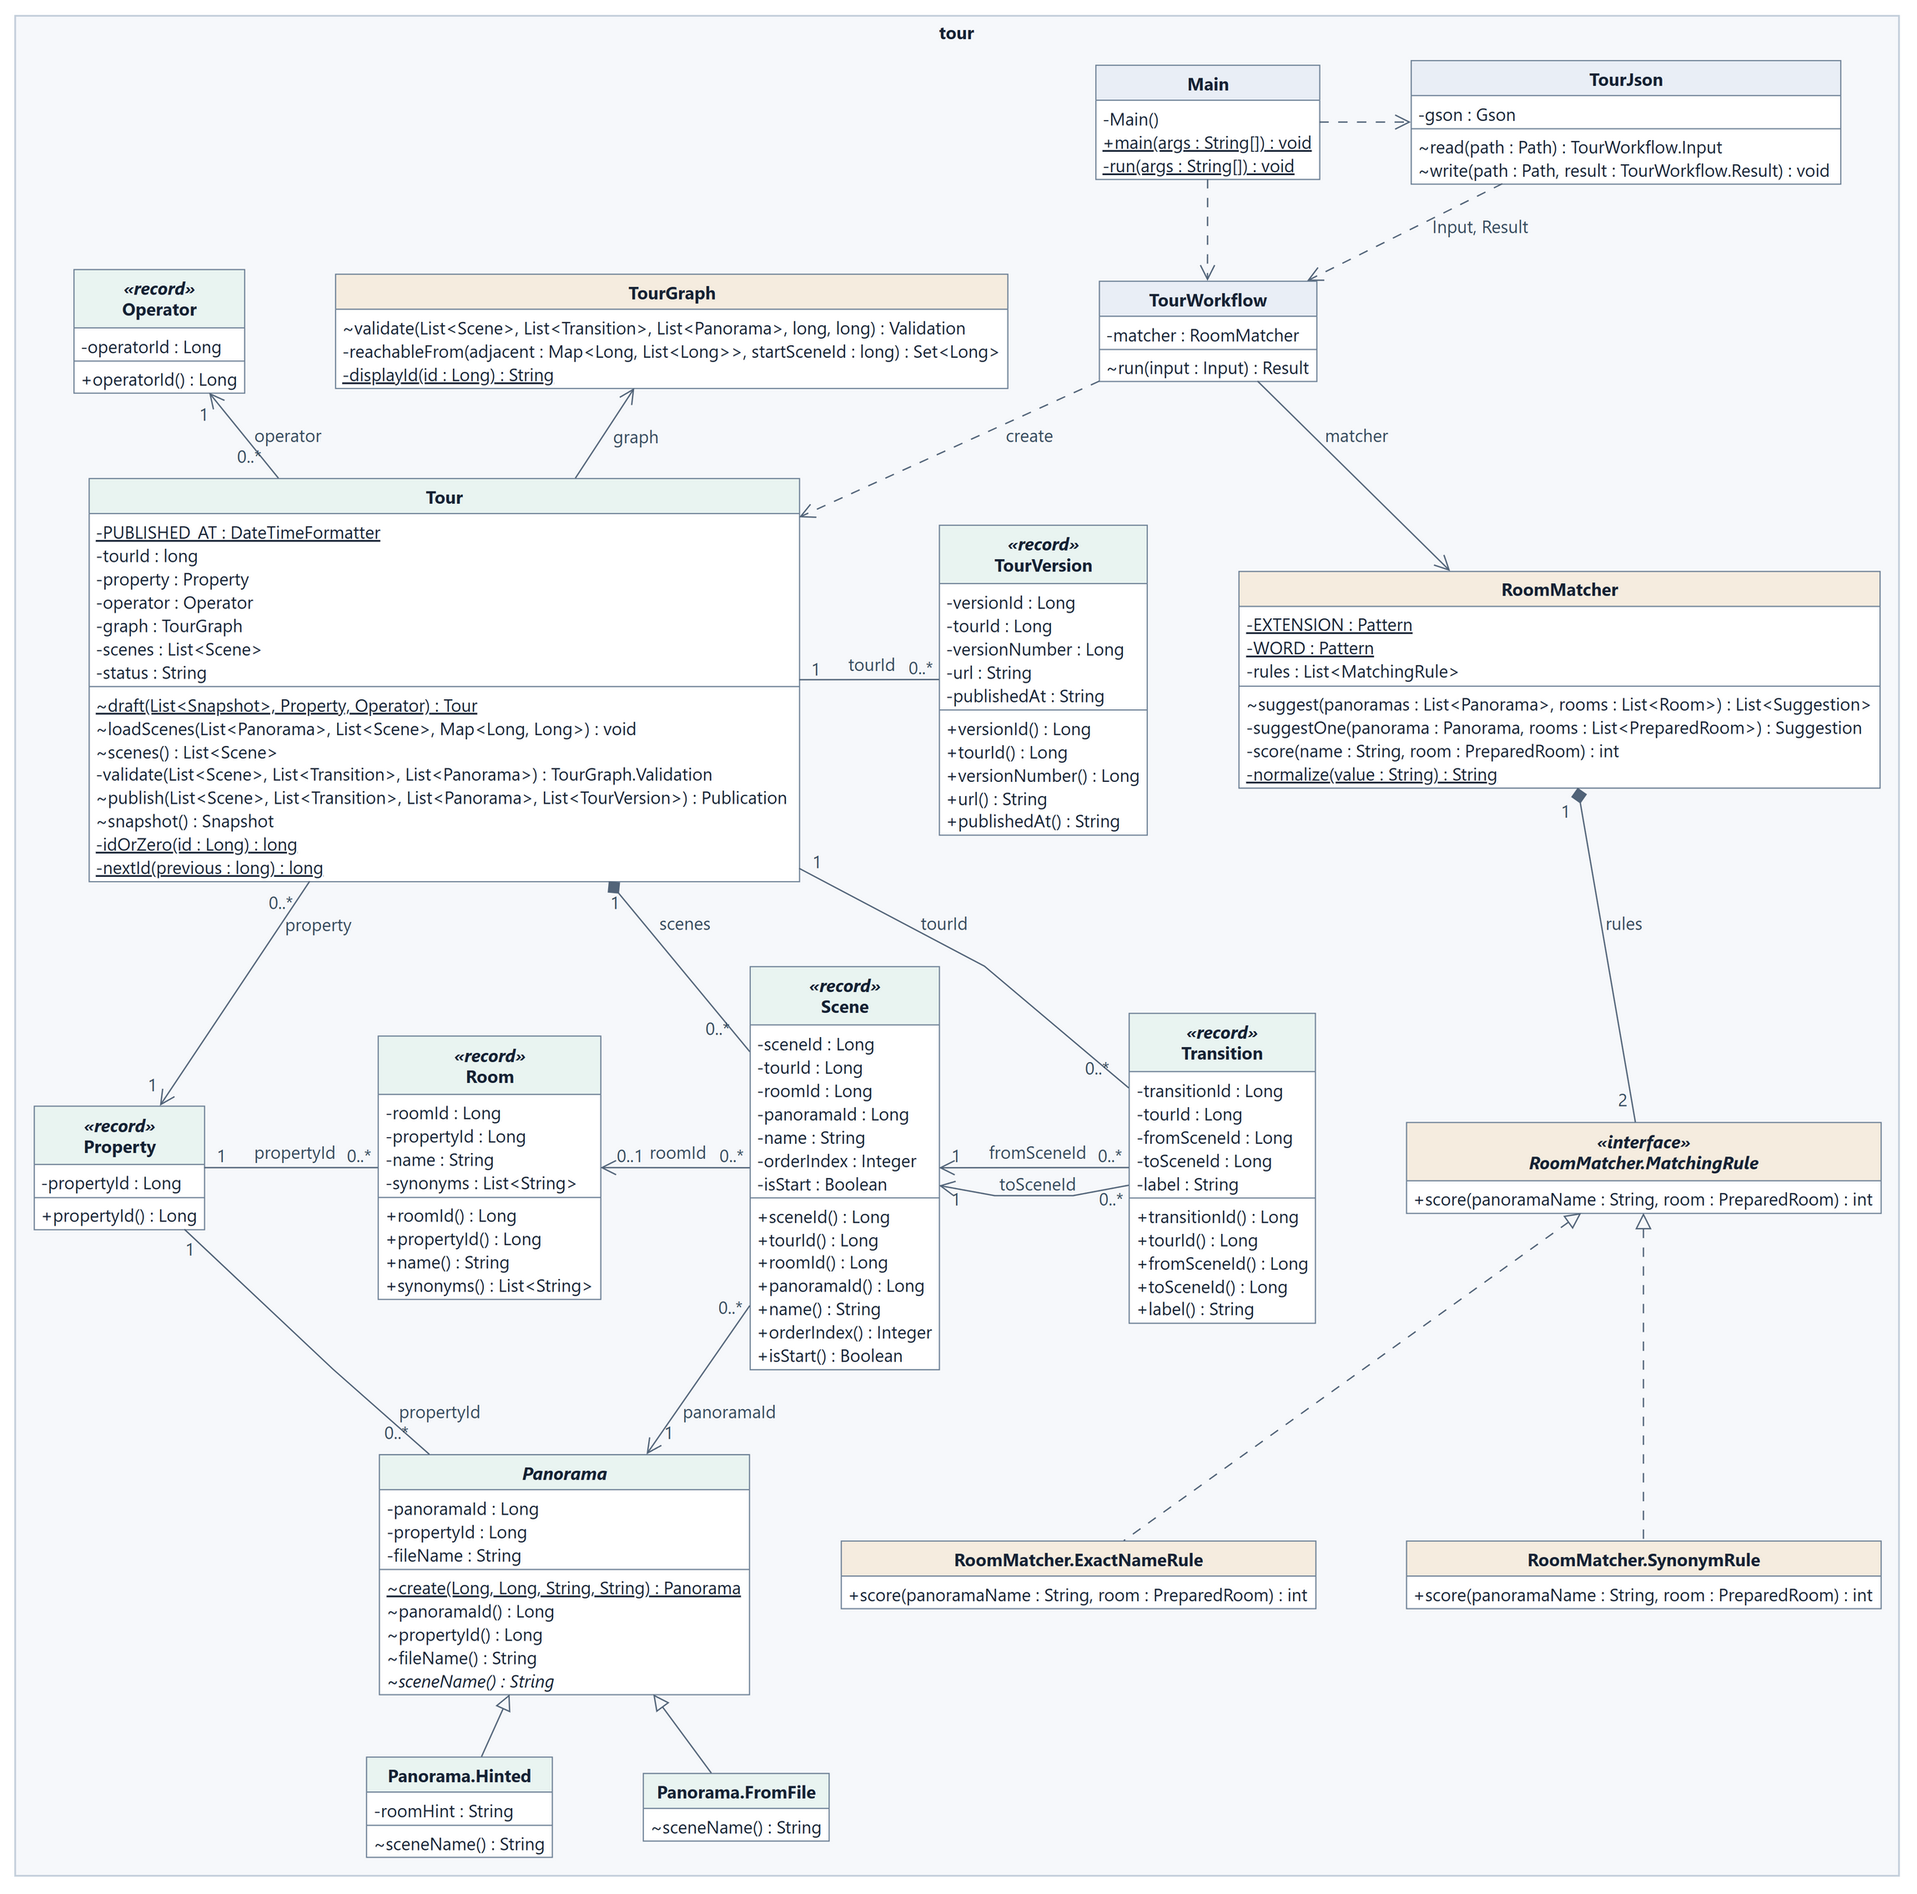
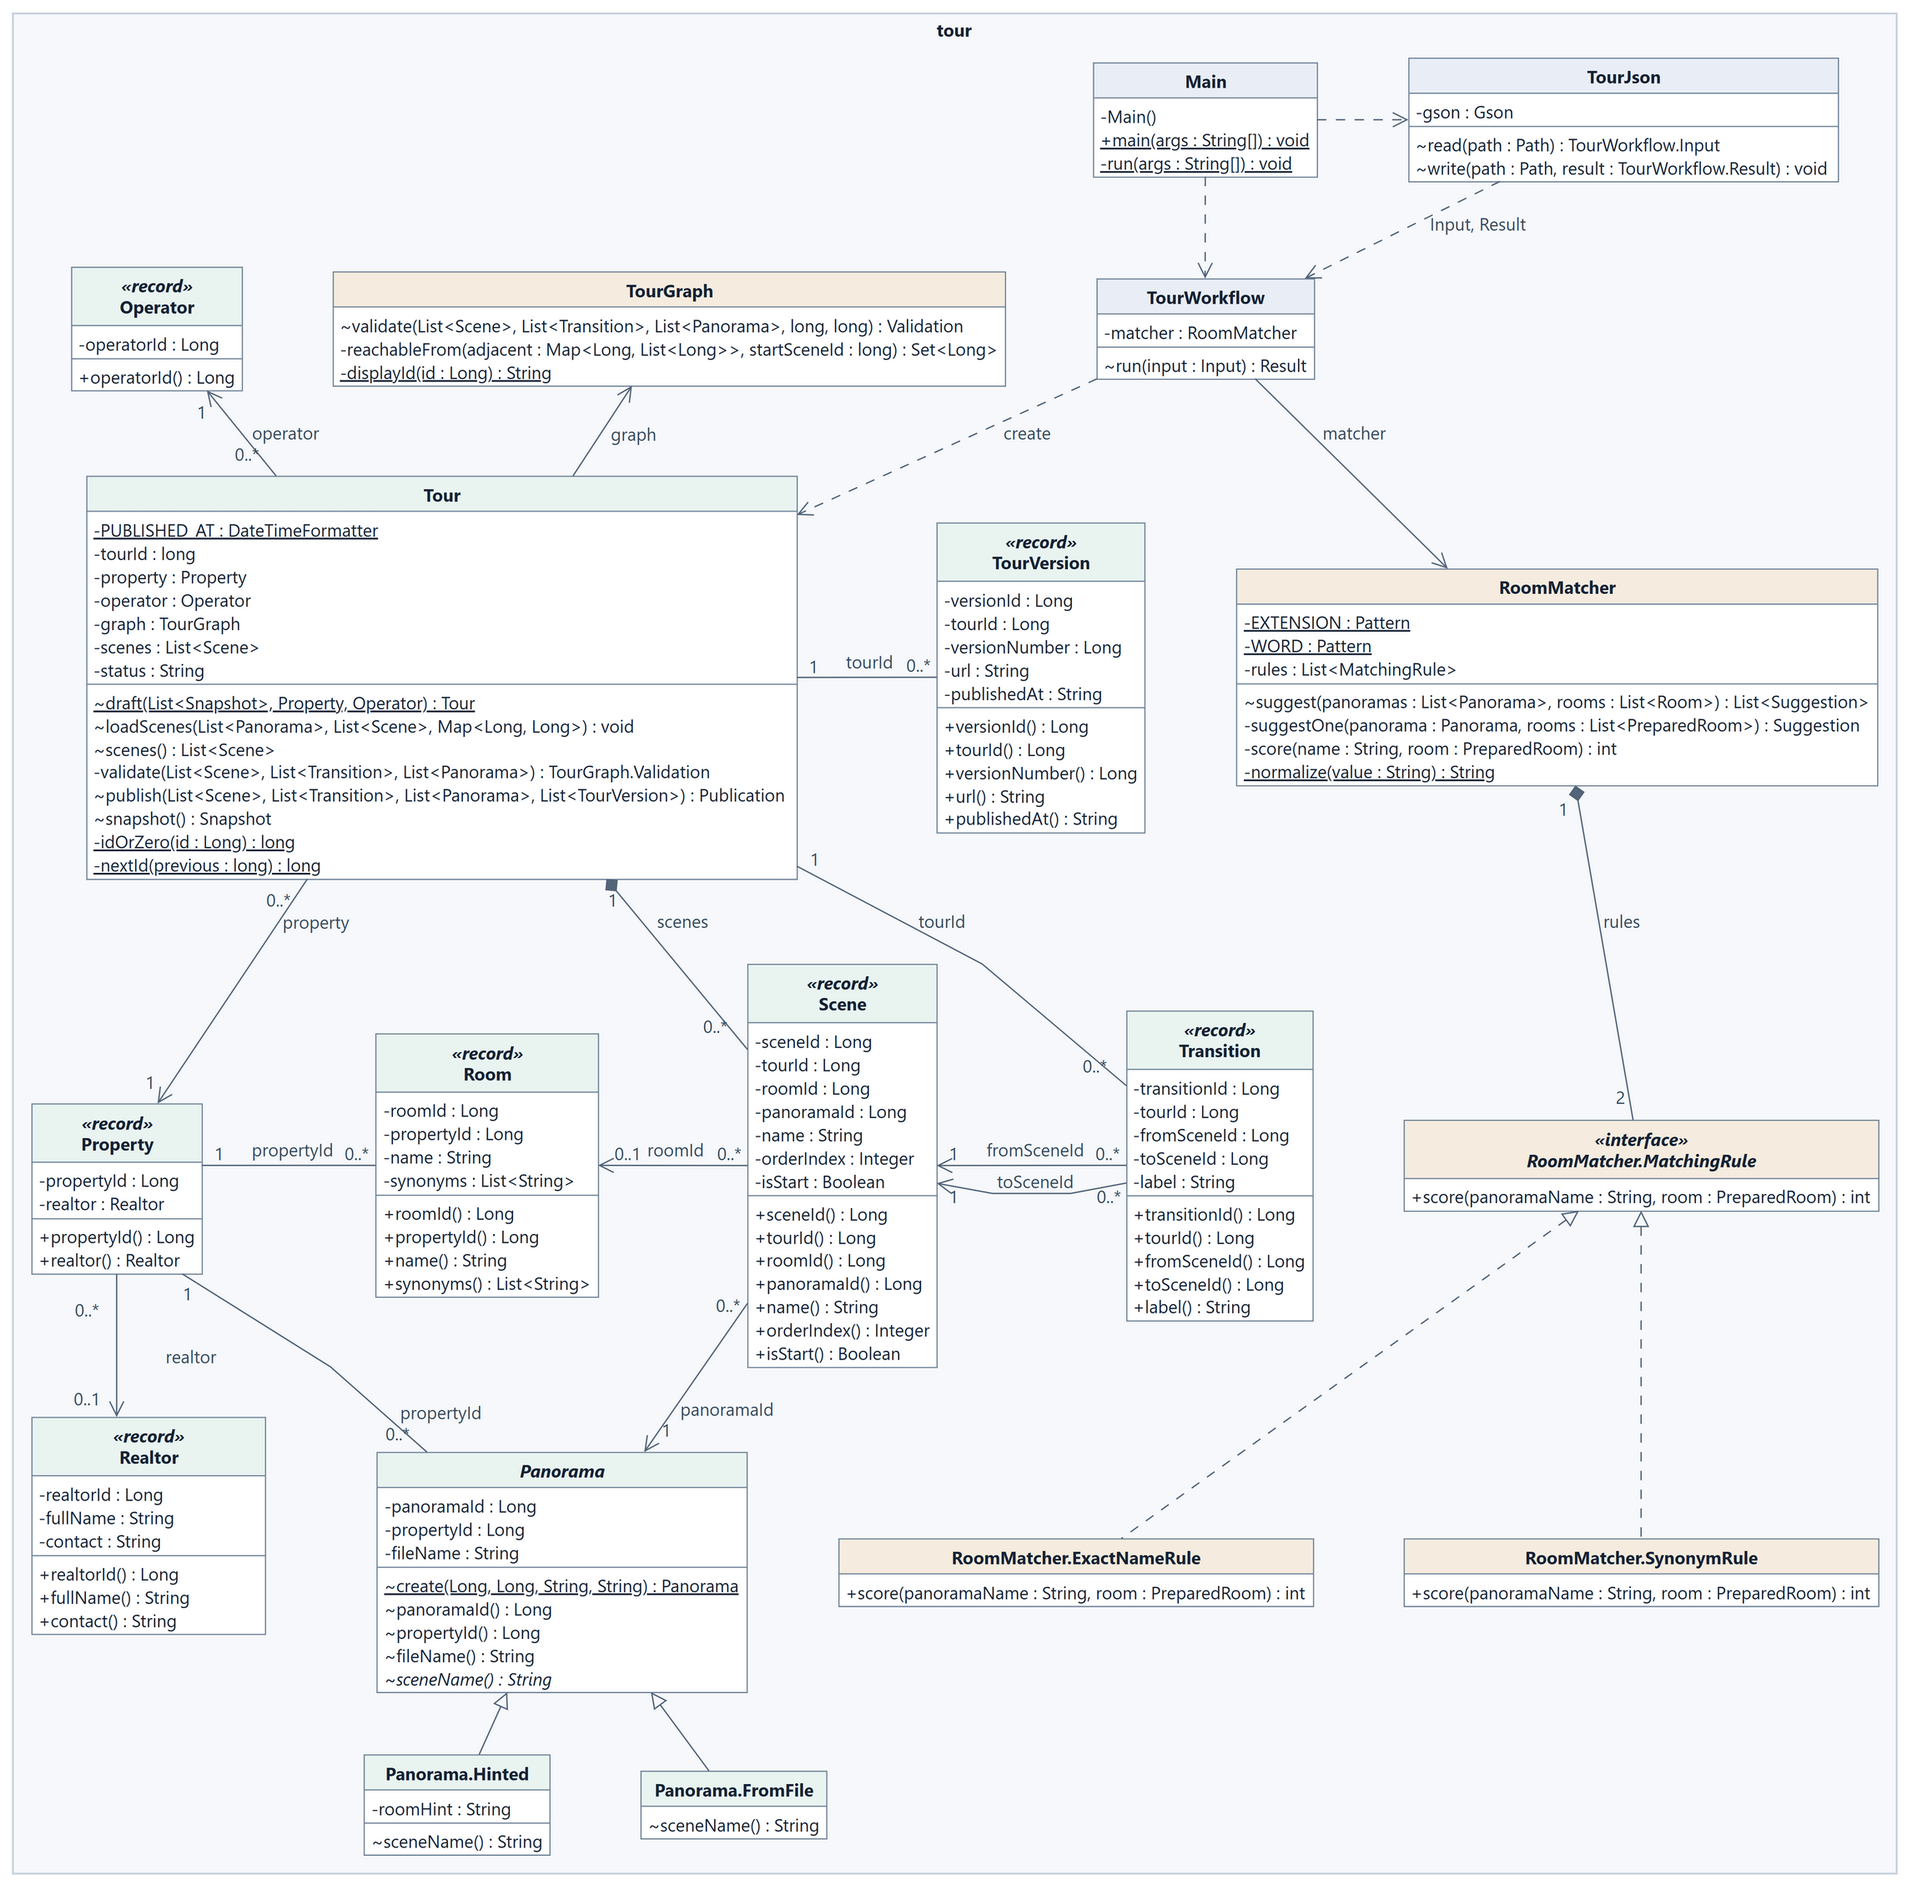
Добавить сущность Realtor и обновить диаграмму классов

diff --git a/src/java/src/main/java/tour/TourJson.java b/src/java/src/main/java/tour/TourJson.java
@@ -34,8 +34,13 @@ final class TourJson {
                 }
             }
             InputDocument data = gson.fromJson(root, InputDocument.class);
+            Realtor realtor = data.realtor();
+            if (realtor != null && realtor.realtorId() == null) {
+                throw new IllegalArgumentException("Отсутствует обязательное поле realtor.realtor_id");
+            }
             List<Panorama> panoramas = data.panoramas().stream().map(PanoramaEntry::toPanorama).toList();
-            return new TourWorkflow.Input(new Property(data.propertyId()), new Operator(data.operatorId()),
+            return new TourWorkflow.Input(new Property(data.propertyId(), realtor),
+                    new Operator(data.operatorId()),
                     data.rooms(), panoramas, data.tours(), data.scenes(), data.transitions(), data.versions());
         }
     }
@@ -59,7 +64,8 @@ final class TourJson {
         }
     }
 
-    private record InputDocument(Long propertyId, Long operatorId, List<Room> rooms, List<PanoramaEntry> panoramas,
+    private record InputDocument(Long propertyId, Long operatorId, Realtor realtor,
+                                 List<Room> rooms, List<PanoramaEntry> panoramas,
                                  List<Tour.Snapshot> tours, List<Scene> scenes, List<Transition> transitions,
                                  List<TourVersion> versions) {
         InputDocument {

diff --git a/src/java/src/main/java/tour/Property.java b/src/java/src/main/java/tour/Property.java
@@ -1,4 +1,4 @@
 package tour;
 
-record Property(Long propertyId) {
+record Property(Long propertyId, Realtor realtor) {
 }

diff --git a/src/java/src/main/java/tour/Realtor.java b/src/java/src/main/java/tour/Realtor.java
@@ -1,0 +1,4 @@
+package tour;
+
+record Realtor(Long realtorId, String fullName, String contact) {
+}

diff --git a/src/java/README.md b/src/java/README.md
@@ -33,4 +33,5 @@ java -jar target/virtual-tour.jar --input example_input.json --output result.jso
 - `Panorama` задаёт общий тип панорамы. Подкласс `Hinted` использует подсказку оператора, `FromFile` — имя файла. Полученное имя используется и в сцене, и при сопоставлении.
 - `RoomMatcher` применяет две реализации интерфейса `MatchingRule`: точное совпадение и совпадение по синониму. При равенстве лучших оценок сохраняются все кандидаты. При отсутствии совпадений панорама направляется на ручную проверку.
 - `Tour` создаёт сцены и выпускает версию после проверки. `TourGraph` строит список смежности и обходом в ширину находит сцены, достижимые из старта.
-- `List` хранит упорядоченные сущности, `Map` индексирует сцены и переходы графа, `Set` хранит синонимы и посещённые сцены. Работа с отдельной записью риелтора выходит за рамки сценария КТ2: ввод содержит идентификаторы объекта и оператора.
+- `List` хранит упорядоченные сущности, `Map` индексирует сцены и переходы графа, `Set` хранит синонимы и посещённые сцены.
+- `Property` хранит связанного риелтора в записи `Realtor`. В JSON можно передать объект `realtor` с идентификатором `realtor_id`, именем `full_name` и контактом `contact`. Старые входные файлы без `realtor` поддерживаются. Сведения о риелторе относятся к входным данным объекта. Формат результата совпадает с форматом процедурной версии.
